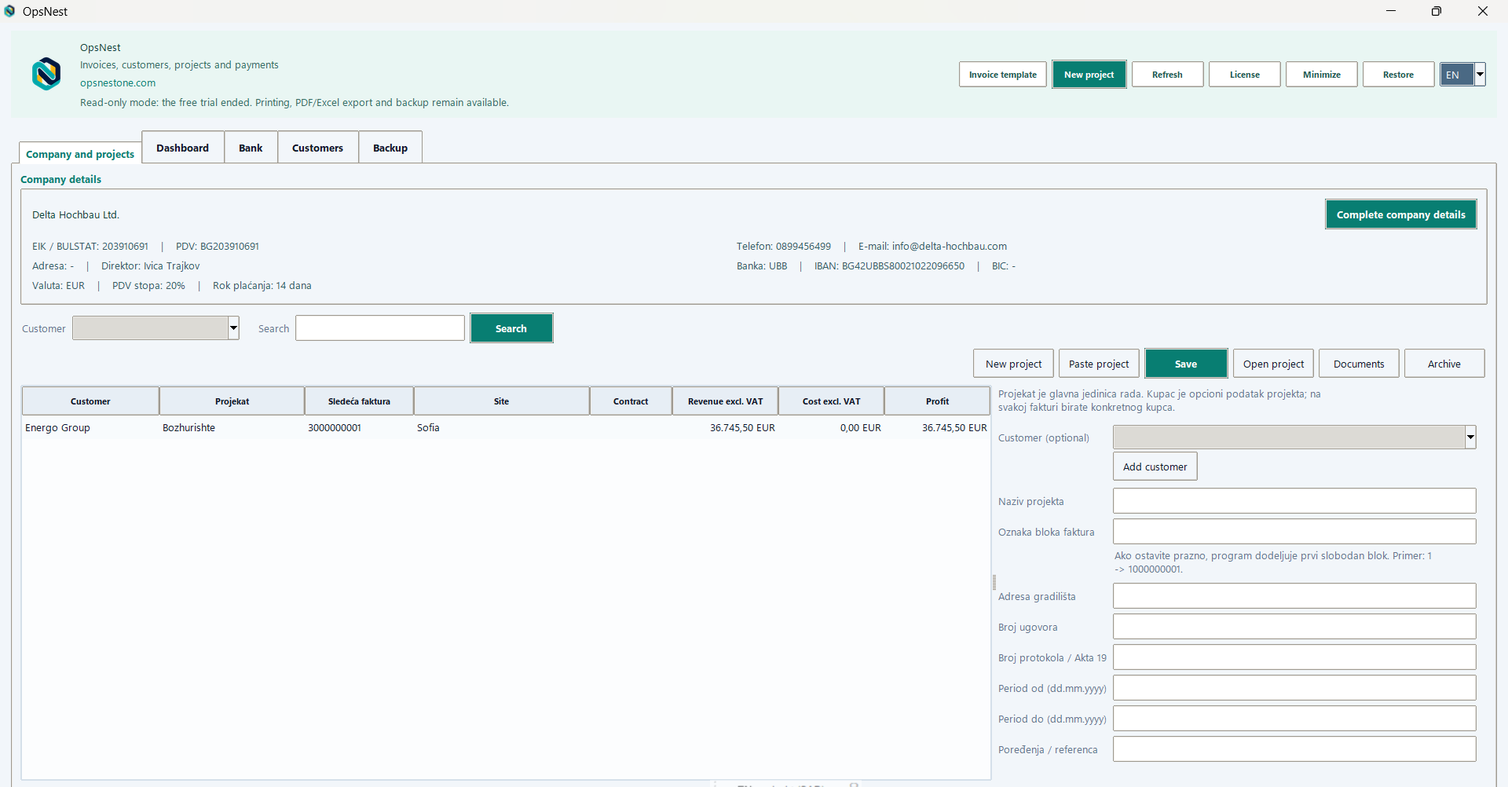
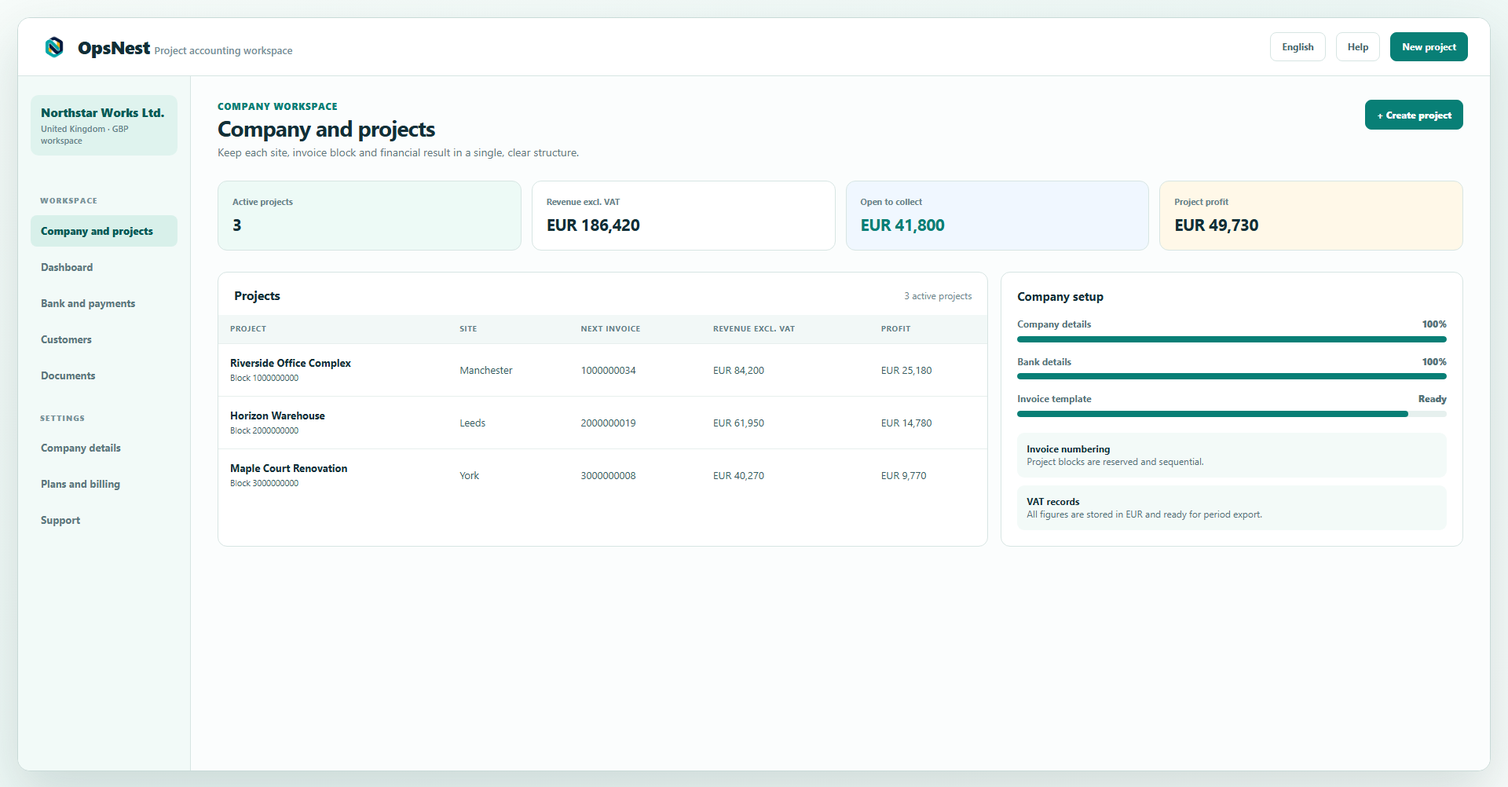
Publish demo gallery and guide page

diff --git a/tools/render_demo_screens.html b/tools/render_demo_screens.html
@@ -1,0 +1,20 @@
+<!doctype html>
+<html lang="en">
+<head>
+  <meta charset="utf-8">
+  <meta name="viewport" content="width=device-width, initial-scale=1">
+  <title>OpsNest public demo screens</title>
+  <style>
+    :root { --ink:#122f37; --muted:#5f7880; --teal:#087f76; --teal-dark:#075b57; --mint:#e8f7f3; --line:#d7e5e3; --paper:#f6faf9; --blue:#eff6ff; --amber:#fff4dc; --red:#fff0ef; }
+    *{box-sizing:border-box} body{margin:0;background:#edf5f3;color:var(--ink);font:15px/1.38 "Segoe UI",Arial,sans-serif}.screen{display:none;min-height:1002px;background:linear-gradient(145deg,#f7fcfa 0%,#edf7f5 52%,#f9fcfb 100%);padding:22px}.screen.active{display:block}.window{min-height:958px;overflow:hidden;border:1px solid #c8dad7;border-radius:16px;background:#fff;box-shadow:0 28px 70px rgba(17,62,58,.16)}.top{height:74px;display:flex;align-items:center;justify-content:space-between;padding:0 28px;border-bottom:1px solid var(--line);background:rgba(255,255,255,.96)}.brand{display:flex;align-items:center;gap:12px;font-size:23px;font-weight:800;letter-spacing:-.6px}.brand img{width:36px;height:36px}.brand span{color:#759098;font-size:13px;font-weight:600;letter-spacing:0}.top-actions{display:flex;align-items:center;gap:13px}.pill{padding:9px 14px;border:1px solid var(--line);border-radius:8px;color:#45666b;background:#fff;font-size:12px;font-weight:700}.pill.primary{border-color:var(--teal);color:white;background:var(--teal)}.layout{display:grid;grid-template-columns:220px 1fr;min-height:884px}.sidebar{padding:24px 16px;background:#f2faf8;border-right:1px solid var(--line)}.workspace{padding:30px 34px;background:#fbfdfd}.company{display:flex;align-items:center;gap:12px;padding:12px 13px;border-radius:10px;background:#dff3ee;color:var(--teal-dark);font-weight:800}.company small{display:block;margin-top:2px;color:#63848a;font-size:11px;font-weight:600}.menu{display:grid;gap:6px;margin-top:29px}.menu div{padding:11px 13px;border-radius:8px;color:#5c7880;font-size:13px;font-weight:650}.menu div.active{background:#d8f0ea;color:var(--teal-dark);font-weight:800}.menu label{margin:22px 12px 5px;color:#78939a;font-size:10px;font-weight:800;letter-spacing:1.1px;text-transform:uppercase}.main-head{display:flex;justify-content:space-between;gap:20px;align-items:start}.crumb{color:var(--teal);font-size:12px;font-weight:800;letter-spacing:.6px;text-transform:uppercase}.main-head h1{margin:4px 0 0;font-size:28px;line-height:1.05;letter-spacing:-.9px}.main-head p{margin:7px 0 0;color:var(--muted);font-size:14px}.button{display:inline-flex;align-items:center;justify-content:center;min-height:38px;padding:0 14px;border:1px solid var(--line);border-radius:8px;background:#fff;color:#315b61;font-size:12px;font-weight:800}.button.primary{border-color:var(--teal);background:var(--teal);color:#fff}.mini{padding:8px 11px;border-radius:7px;background:white;border:1px solid var(--line);font-size:11px;font-weight:800;color:#46676c}.stats{display:grid;grid-template-columns:repeat(4,1fr);gap:13px;margin:27px 0}.stat{padding:18px;border:1px solid var(--line);border-radius:12px;background:#fff}.stat.green{background:#edfaf6}.stat.blue{background:#f0f7ff}.stat.amber{background:#fff8e8}.stat small{display:block;color:#68848a;font-size:11px;font-weight:700}.stat strong{display:block;margin-top:7px;font-size:21px;letter-spacing:-.5px}.stat strong.teal{color:var(--teal)}.panel{border:1px solid var(--line);border-radius:12px;background:#fff}.panel-header{display:flex;align-items:center;justify-content:space-between;padding:18px 20px 14px}.panel-header h2{margin:0;font-size:16px;letter-spacing:-.2px}.panel-header span{color:#6c888d;font-size:12px}.table{width:100%;border-collapse:collapse}.table th{padding:11px 15px;background:#f2f8f7;color:#628087;font-size:10px;letter-spacing:.6px;text-align:left;text-transform:uppercase}.table td{padding:15px;border-top:1px solid #e7efed;color:#355c63;font-size:13px}.table td strong{color:var(--ink)}.status{display:inline-block;padding:5px 8px;border-radius:99px;font-size:10px;font-weight:800}.status.green{color:#087064;background:#dff5ed}.status.amber{color:#a86d0b;background:#fff0cb}.status.blue{color:#2c6fb6;background:#e9f3ff}.two{display:grid;grid-template-columns:1.25fr .75fr;gap:16px}.side-summary{padding:20px}.side-summary h3{margin:0 0 16px;font-size:15px}.bar-line{display:flex;justify-content:space-between;gap:10px;margin:16px 0 7px;color:#557379;font-size:12px;font-weight:700}.bar{height:8px;border-radius:99px;background:#e6f0ee;overflow:hidden}.bar i{display:block;height:100%;border-radius:99px;background:var(--teal)}.notes{display:grid;gap:10px;margin-top:20px}.note{padding:12px;border-radius:9px;background:#f3faf8;color:#537279;font-size:12px}.note b{color:var(--ink)}
+    .project-banner{display:flex;align-items:center;justify-content:space-between;margin:24px 0 16px;padding:18px 20px;border:1px solid #cce5df;border-radius:12px;background:linear-gradient(100deg,#e7f6f1,#f9fffd)}.project-banner h2{margin:5px 0 0;font-size:21px}.invoice-actions{display:flex;gap:9px}.progress{height:9px;margin-top:14px;border-radius:99px;background:#deeeeb;overflow:hidden}.progress i{display:block;width:72%;height:100%;border-radius:inherit;background:linear-gradient(90deg,var(--teal),#35aa99)}.activity{padding:20px}.activity-item{display:flex;align-items:center;justify-content:space-between;padding:13px 0;border-bottom:1px solid #e6eeee;font-size:12px}.activity-item:last-child{border:0}.activity-item b{display:block;color:var(--ink);font-size:13px}.activity-item span{color:#6c878d}.row-split{display:grid;grid-template-columns:1fr 1fr;gap:16px}
+    .notice{display:flex;align-items:center;gap:10px;margin:20px 0;padding:12px 15px;border:1px solid #d7e8f7;border-radius:9px;background:#f1f8ff;color:#47718b;font-size:12px}.notice b{color:#216da5}.match{display:grid;grid-template-columns:1.1fr .9fr auto;gap:14px;align-items:center}.match-title{font-weight:800;color:var(--ink)}.match p{margin:3px 0 0;color:#6a848a;font-size:11px}.amount{text-align:right;color:var(--teal-dark);font-size:14px;font-weight:850}.confidence{display:inline-block;padding:5px 8px;border-radius:6px;background:#e1f5ef;color:#087264;font-size:10px;font-weight:800}.bank-grid{display:grid;grid-template-columns:1.3fr .7fr;gap:16px}.match-list .table td{padding:13px 15px}.empty{padding:34px 18px;color:#789398;text-align:center;font-size:12px}
+  </style>
+</head>
+<body>
+  <section class="screen" id="company"><div class="window"><div class="top"><div class="brand"><img src="../public_site/assets/opsnest-mark.png" alt=""><div>OpsNest <span>Project accounting workspace</span></div></div><div class="top-actions"><span class="pill">English</span><span class="pill">Help</span><span class="pill primary">New project</span></div></div><div class="layout"><aside class="sidebar"><div class="company"><div>Northstar Works Ltd.<small>United Kingdom · GBP workspace</small></div></div><div class="menu"><label>Workspace</label><div class="active">Company and projects</div><div>Dashboard</div><div>Bank and payments</div><div>Customers</div><div>Documents</div><label>Settings</label><div>Company details</div><div>Plans and billing</div><div>Support</div></div></aside><main class="workspace"><div class="main-head"><div><div class="crumb">Company workspace</div><h1>Company and projects</h1><p>Keep each site, invoice block and financial result in a single, clear structure.</p></div><div class="button primary">+ Create project</div></div><div class="stats"><div class="stat green"><small>Active projects</small><strong>3</strong></div><div class="stat"><small>Revenue excl. VAT</small><strong>EUR 186,420</strong></div><div class="stat blue"><small>Open to collect</small><strong class="teal">EUR 41,800</strong></div><div class="stat amber"><small>Project profit</small><strong>EUR 49,730</strong></div></div><div class="two"><section class="panel"><div class="panel-header"><h2>Projects</h2><span>3 active projects</span></div><table class="table"><thead><tr><th>Project</th><th>Site</th><th>Next invoice</th><th>Revenue excl. VAT</th><th>Profit</th></tr></thead><tbody><tr><td><strong>Riverside Office Complex</strong><br><small>Block 1000000000</small></td><td>Manchester</td><td>1000000034</td><td>EUR 84,200</td><td>EUR 25,180</td></tr><tr><td><strong>Horizon Warehouse</strong><br><small>Block 2000000000</small></td><td>Leeds</td><td>2000000019</td><td>EUR 61,950</td><td>EUR 14,780</td></tr><tr><td><strong>Maple Court Renovation</strong><br><small>Block 3000000000</small></td><td>York</td><td>3000000008</td><td>EUR 40,270</td><td>EUR 9,770</td></tr></tbody></table></section><aside class="panel side-summary"><h3>Company setup</h3><div class="bar-line"><span>Company details</span><b>100%</b></div><div class="bar"><i style="width:100%"></i></div><div class="bar-line"><span>Bank details</span><b>100%</b></div><div class="bar"><i style="width:100%"></i></div><div class="bar-line"><span>Invoice template</span><b>Ready</b></div><div class="bar"><i style="width:91%"></i></div><div class="notes"><div class="note"><b>Invoice numbering</b><br>Project blocks are reserved and sequential.</div><div class="note"><b>VAT records</b><br>All figures are stored in EUR and ready for period export.</div></div></aside></div></main></div></div></section>
+  <section class="screen" id="dashboard"><div class="window"><div class="top"><div class="brand"><img src="../public_site/assets/opsnest-mark.png" alt=""><div>OpsNest <span>Project accounting workspace</span></div></div><div class="top-actions"><span class="pill">Riverside Office Complex</span><span class="pill primary">New invoice</span></div></div><div class="layout"><aside class="sidebar"><div class="company"><div>Northstar Works Ltd.<small>Riverside Office Complex</small></div></div><div class="menu"><label>Project</label><div class="active">Dashboard</div><div>Invoices</div><div>Incoming bills</div><div>Payments</div><div>Documents</div><label>Reporting</label><div>VAT record</div><div>Profit report</div><div>Accountant export</div></div></aside><main class="workspace"><div class="main-head"><div><div class="crumb">Project dashboard · Active</div><h1>Riverside Office Complex</h1><p>Manchester · Contract RC-2026-14 · Invoice block 1000000000</p></div><div class="invoice-actions"><span class="button">Import bill PDF</span><span class="button primary">+ New invoice</span></div></div><div class="project-banner"><div><div class="crumb">Project progress</div><h2>Structural works and fit-out</h2><div class="progress"><i></i></div></div><div><span class="status green">On track</span><p style="margin:8px 0 0;color:#5f7a80;font-size:12px">Budget variance: +4.8%</p></div></div><div class="stats"><div class="stat"><small>Revenue excl. VAT</small><strong>EUR 84,200</strong></div><div class="stat green"><small>Collected</small><strong class="teal">EUR 61,950</strong></div><div class="stat blue"><small>Open to collect</small><strong>EUR 22,250</strong></div><div class="stat amber"><small>Profit excl. VAT</small><strong>EUR 25,180</strong></div></div><div class="row-split"><section class="panel"><div class="panel-header"><h2>Project documents</h2><span>Latest activity</span></div><table class="table"><thead><tr><th>Type</th><th>Number</th><th>Partner</th><th>Net amount</th><th>Status</th></tr></thead><tbody><tr><td>Issued invoice</td><td>1000000033</td><td>Harbor Build Ltd.</td><td>EUR 18,450</td><td><span class="status amber">Part paid</span></td></tr><tr><td>Incoming bill</td><td>MB-4819</td><td>Silverline Materials</td><td>EUR 7,840</td><td><span class="status green">Recorded</span></td></tr><tr><td>Issued invoice</td><td>1000000032</td><td>Harbor Build Ltd.</td><td>EUR 12,600</td><td><span class="status green">Paid</span></td></tr></tbody></table></section><section class="panel activity"><div class="panel-header" style="padding:0 0 8px"><h2>What needs attention</h2></div><div class="activity-item"><div><b>Invoice 1000000033</b><span>Due in 3 days</span></div><span class="status amber">EUR 12,450 open</span></div><div class="activity-item"><div><b>Supplier bill PDF</b><span>Review extracted values</span></div><span class="status blue">Ready</span></div><div class="activity-item"><div><b>VAT record</b><span>July period is open</span></div><span class="status blue">Review</span></div><div class="activity-item"><div><b>Project budget</b><span>Materials remain under plan</span></div><span class="status green">Healthy</span></div></section></div></main></div></div></section>
+  <section class="screen" id="bank"><div class="window"><div class="top"><div class="brand"><img src="../public_site/assets/opsnest-mark.png" alt=""><div>OpsNest <span>Project accounting workspace</span></div></div><div class="top-actions"><span class="pill">July 2026</span><span class="pill primary">Import statement</span></div></div><div class="layout"><aside class="sidebar"><div class="company"><div>Northstar Works Ltd.<small>Bank and payments</small></div></div><div class="menu"><label>Finance</label><div>Project dashboard</div><div>Invoices</div><div class="active">Bank and payments</div><div>Incoming bills</div><div>VAT record</div><label>Tools</label><div>Documents</div><div>Accountant export</div><div>Support</div></div></aside><main class="workspace"><div class="main-head"><div><div class="crumb">Bank statement review</div><h1>Payments ready to confirm</h1><p>OpsNest suggests the invoice match. You confirm every payment before the balance changes.</p></div><div class="button primary">Confirm all safe matches</div></div><div class="notice"><b>3 payments need your review.</b> Imported values are never posted automatically.</div><div class="stats"><div class="stat"><small>Imported payments</small><strong>8</strong></div><div class="stat green"><small>Safe matches</small><strong class="teal">5</strong></div><div class="stat blue"><small>Review required</small><strong>3</strong></div><div class="stat amber"><small>Matched value</small><strong>EUR 24,790</strong></div></div><div class="bank-grid"><section class="panel match-list"><div class="panel-header"><h2>Suggested matches</h2><span>Review and confirm</span></div><table class="table"><thead><tr><th>Payment</th><th>Suggested invoice</th><th>Amount</th><th>Confidence</th></tr></thead><tbody><tr><td><strong>Harbor Build Ltd.</strong><br><small>Reference: RC-0033</small></td><td>Invoice 1000000033<br><small>Riverside Office Complex</small></td><td class="amount">EUR 6,000</td><td><span class="confidence">High · 98%</span></td></tr><tr><td><strong>Harbor Build Ltd.</strong><br><small>Reference: RC-0032</small></td><td>Invoice 1000000032<br><small>Riverside Office Complex</small></td><td class="amount">EUR 12,600</td><td><span class="confidence">High · 100%</span></td></tr><tr><td><strong>Fieldstone Design</strong><br><small>Reference: Deposit</small></td><td>Invoice 2000000018<br><small>Horizon Warehouse</small></td><td class="amount">EUR 4,240</td><td><span class="confidence">High · 96%</span></td></tr><tr><td><strong>Unknown transfer</strong><br><small>Reference: INV-28</small></td><td>No safe suggestion</td><td class="amount">EUR 1,950</td><td><span class="status amber">Review</span></td></tr></tbody></table></section><aside class="panel side-summary"><h3>Review steps</h3><div class="notes"><div class="note"><b>1. Import statement</b><br>Use CSV or XLSX from your bank.</div><div class="note"><b>2. Review the suggestion</b><br>Check payer, amount and reference.</div><div class="note"><b>3. Confirm payment</b><br>The invoice balance and project dashboard update together.</div></div><div class="empty">No payment is changed without confirmation.</div></aside></div></main></div></div></section>
+  <script>const view=new URLSearchParams(location.search).get('view')||'company';document.getElementById(view)?.classList.add('active');</script>
+</body>
+</html>

diff --git a/public_site/index.html b/public_site/index.html
@@ -6,7 +6,7 @@
   <meta name="description" content="OpsNest is a Windows application for project invoicing, costs, payments and clear project profit in EUR.">
   <title>OpsNest | Project accounting made visible</title>
   <link rel="icon" href="/assets/opsnest.ico">
-  <link rel="stylesheet" href="/assets/opsnest.css?v=20260717-clean-screens">
+  <link rel="stylesheet" href="/assets/opsnest.css?v=20260717-symmetric-demo">
 </head>
 <body>
   <div class="site-shell">
@@ -15,7 +15,7 @@
       <div class="container nav-wrap">
         <a class="brand" href="/" aria-label="OpsNest home"><img src="/assets/opsnest-mark.png" alt="OpsNest logo"><span class="brand-word"><strong>OpsNest</strong><span>Project accounting</span></span></a>
         <nav class="nav-links" aria-label="Primary navigation">
-          <a href="#product">Product</a><a href="#screens">Screens</a><a href="#how-it-works">How it works</a><a href="/pricing.html">Pricing</a><a href="/getting-started.html">Install guide</a><a href="/support.html">Support</a><a class="nav-cta" href="/downloads/OpsNest-Setup-2.8.12.exe">Download for Windows</a>
+          <a href="#product">Product</a><a href="#screens">Screens</a><a href="/how-it-works.html">How it works</a><a href="/pricing.html">Pricing</a><a href="/getting-started.html">Install guide</a><a href="/support.html">Support</a><a class="nav-cta" href="/downloads/OpsNest-Setup-2.8.12.exe">Download for Windows</a>
         </nav>
       </div>
     </header>
@@ -38,7 +38,7 @@
 
       <section class="section soft" id="product"><div class="container"><div class="section-heading"><div><div class="eyebrow">One place to work</div><h2>The clarity of a project dashboard with the discipline of accounting.</h2></div><p>Open a project and see its full story: money invoiced, money collected, VAT, direct costs and the result.</p></div><div class="feature-grid"><article class="feature-card"><div class="feature-icon">01</div><h3>Invoice with confidence</h3><p>Use your invoice template, automatic project prefixes and consecutive document numbers. Save PDF immediately and send it by e-mail from the app.</p></article><article class="feature-card"><div class="feature-icon">02</div><h3>Know every cost</h3><p>Capture incoming bills, subcontractor costs, material, wages and other expenses. Import a PDF, review the detected values and save it to the right project.</p></article><article class="feature-card"><div class="feature-icon">03</div><h3>See the real result</h3><p>Every project dashboard combines revenue, payment status, VAT, costs, profit and supporting documents without forcing you into complicated accounting screens.</p></article></div></div></section>
 
-      <section class="section product-screens" id="screens"><div class="container"><div class="section-heading"><div><div class="eyebrow">Inside OpsNest</div><h2>Clear screens for the work that matters every day.</h2></div><p>See projects, financial results and bank-payment matching in one practical Windows workspace.</p></div><div class="showcase-grid"><figure class="showcase-card showcase-primary"><a href="/assets/screenshots/company-projects.png?v=20260717" target="_blank" rel="noopener" aria-label="Open the company and projects screenshot in full size"><img src="/assets/screenshots/company-projects.png?v=20260717" alt="OpsNest company and project workspace" width="1920" height="1002" loading="lazy" decoding="async"></a><figcaption><span>Company and projects</span><strong>Build a clear project structure before the first invoice</strong></figcaption></figure><figure class="showcase-card showcase-dashboard"><a href="/assets/screenshots/project-dashboard.png?v=20260717" target="_blank" rel="noopener" aria-label="Open the project dashboard screenshot in full size"><img src="/assets/screenshots/project-dashboard.png?v=20260717" alt="OpsNest project dashboard with invoices, VAT, costs and profit" width="1920" height="1002" loading="lazy" decoding="async"></a><figcaption><span>Project dashboard</span><strong>Revenue, VAT, costs and profit in one view</strong></figcaption></figure><figure class="showcase-card showcase-bank"><a href="/assets/screenshots/bank-matching.png?v=20260717" target="_blank" rel="noopener" aria-label="Open the bank matching screenshot in full size"><img src="/assets/screenshots/bank-matching.png?v=20260717" alt="OpsNest bank statement and payment matching workspace" width="1920" height="1002" loading="lazy" decoding="async"></a><figcaption><span>Bank matching</span><strong>Review imported payments before confirming them</strong></figcaption></figure></div><p class="screen-note">The screens use representative demo data. Click any image to inspect it in full size.</p></div></section>
+      <section class="section product-screens" id="screens"><div class="container"><div class="section-heading"><div><div class="eyebrow">Inside OpsNest</div><h2>Clear screens for the work that matters every day.</h2></div><p>See projects, financial results and bank-payment matching in one practical Windows workspace.</p></div><div class="showcase-grid"><figure class="showcase-card showcase-primary"><a href="/assets/screenshots/company-projects.png?v=20260717-demo" target="_blank" rel="noopener" aria-label="Open the company and projects demo screen in full size"><img src="/assets/screenshots/company-projects.png?v=20260717-demo" alt="OpsNest demo company and project workspace" width="1920" height="1002" loading="lazy" decoding="async"></a><figcaption><span>Company and projects</span><strong>Build a clear project structure before the first invoice</strong></figcaption></figure><figure class="showcase-card showcase-dashboard"><a href="/assets/screenshots/project-dashboard.png?v=20260717-demo" target="_blank" rel="noopener" aria-label="Open the project dashboard demo screen in full size"><img src="/assets/screenshots/project-dashboard.png?v=20260717-demo" alt="OpsNest demo project dashboard with invoices, VAT, costs and profit" width="1920" height="1002" loading="lazy" decoding="async"></a><figcaption><span>Project dashboard</span><strong>Revenue, VAT, costs and profit in one view</strong></figcaption></figure><figure class="showcase-card showcase-bank"><a href="/assets/screenshots/bank-matching.png?v=20260717-demo" target="_blank" rel="noopener" aria-label="Open the bank matching demo screen in full size"><img src="/assets/screenshots/bank-matching.png?v=20260717-demo" alt="OpsNest demo bank statement and payment matching workspace" width="1920" height="1002" loading="lazy" decoding="async"></a><figcaption><span>Bank matching</span><strong>Review imported payments before confirming them</strong></figcaption></figure></div><p class="screen-note">The screens use representative demo data. Click any image to inspect it in full size.</p></div></section>
 
       <section class="section" id="how-it-works"><div class="container"><div class="section-heading"><div><div class="eyebrow">A simple start</div><h2>From download to first invoice in a few clear steps.</h2></div></div><div class="process-grid"><article class="process"><div class="step">1</div><h3>Install and register</h3><p>Download the Windows installer, enter your company details and select the country that sets your default VAT rate.</p></article><article class="process"><div class="step">2</div><h3>Create your project</h3><p>Add a project, choose the invoice block and add customers only where they are needed on a specific invoice.</p></article><article class="process"><div class="step">3</div><h3>Track the whole picture</h3><p>Issue invoices, import PDF bills, match payments and export a clear record for your accountant when you need it.</p></article></div><div class="inline-actions"><a class="button secondary" href="/getting-started.html">Read the complete installation guide</a></div></div></section>
 

diff --git a/public_site/pricing.html b/public_site/pricing.html
@@ -1,5 +1,5 @@
 <!doctype html>
 <html lang="en">
-<head><meta charset="utf-8"><meta name="viewport" content="width=device-width, initial-scale=1"><meta name="description" content="Compare OpsNest Starter, Business and Pro plans."><title>OpsNest pricing | Simple monthly packages</title><link rel="icon" href="/assets/opsnest.ico"><link rel="stylesheet" href="/assets/opsnest.css?v=20260717-aligned"></head>
+<head><meta charset="utf-8"><meta name="viewport" content="width=device-width, initial-scale=1"><meta name="description" content="Compare OpsNest Starter, Business and Pro plans."><title>OpsNest pricing | Simple monthly packages</title><link rel="icon" href="/assets/opsnest.ico"><link rel="stylesheet" href="/assets/opsnest.css?v=20260717-symmetric"></head>
 <body><div class="site-shell"><div class="announcement"><div class="container"><strong>7 days free.</strong><span>New companies begin with all Pro features and no card.</span></div></div><header class="site-header"><div class="container nav-wrap"><a class="brand" href="/"><img src="/assets/opsnest-mark.png" alt="OpsNest logo"><span class="brand-word"><strong>OpsNest</strong><span>Project accounting</span></span></a><nav class="nav-links"><a href="/">Product</a><a href="/getting-started.html">Install guide</a><a href="/support.html">Support</a><a class="nav-cta" href="/downloads/OpsNest-Setup-2.8.12.exe">Download for Windows</a></nav></div></header><main><section class="page-hero"><div class="container"><div class="eyebrow">Plans that are easy to understand</div><h1>Pay for the size of your team, not for a maze of add-ons.</h1><p class="lede">Every package includes local project accounting. Business and Pro add secure team access. Seats are included in the monthly package price, so there is no separate per-person charge inside the listed limit.</p></div></section><section class="section"><div class="container"><div class="pricing-preview"><article class="price-card"><span class="tag">For independent work</span><h3>Starter</h3><div class="price">EUR 9.90 <span>/ month</span></div><ul><li>1 local owner seat</li><li>3 active projects</li><li>30 issued invoices per month</li><li>30 PDF imports per month</li><li>Invoices, PDF/Excel, payments and project dashboard</li><li>E-mail support</li></ul><a class="button secondary" href="/downloads/OpsNest-Setup-2.8.12.exe">Download and start trial</a></article><article class="price-card featured"><span class="tag">Recommended for teams</span><h3>Business</h3><div class="price">EUR 19.90 <span>/ month</span></div><ul><li>Up to 5 team seats included</li><li>15 active projects</li><li>250 invoices per month</li><li>250 PDF imports per month</li><li>Project budgets, bank matching and VAT records</li><li>Owner approval before issuing and custom Excel templates</li><li>Accountant export and priority e-mail support</li></ul><a class="button" href="/downloads/OpsNest-Setup-2.8.12.exe">Download and start trial</a></article><article class="price-card"><span class="tag">For larger operations</span><h3>Pro</h3><div class="price">EUR 29.90 <span>/ month</span></div><ul><li>Up to 20 team seats included</li><li>Unlimited active projects</li><li>Unlimited issued invoices</li><li>Unlimited PDF imports</li><li>All Business tools, owner approval, custom templates and advanced PDF processing</li><li>Priority support and complete project reporting</li></ul><a class="button secondary" href="/downloads/OpsNest-Setup-2.8.12.exe">Download and start trial</a></article></div></div></section><section class="section soft"><div class="container"><div class="split-band"><div><div class="eyebrow">No hidden seat fees</div><h2>Five or twenty people are already included.</h2><p>Business includes up to five people and Pro includes up to twenty. You do not pay an additional fee for each person until you need a larger package. One owner invites teammates, sets roles and can remove access at any time.</p></div><div class="team-list"><div class="team-role"><b>Owner / Administrator</b><span>Controls company profile, billing, members and settings.</span></div><div class="team-role"><b>Project manager</b><span>Works with projects, invoices, costs and reports.</span></div><div class="team-role"><b>Accountant</b><span>Works with VAT, documents and exports.</span></div><div class="team-role"><b>Operator</b><span>Enters costs, documents and payments without deletion rights.</span></div></div></div></div></section><section class="section"><div class="container"><div class="faq-grid"><details><summary>How do I pay after the trial?</summary><p>Inside OpsNest open Plans and billing, choose Starter, Business or Pro, and continue to PayPal. Your next billing date appears in the same window after successful payment.</p></details><details><summary>Can I cancel whenever I want?</summary><p>Yes. The Plans and billing window contains a link to PayPal automatic payments, where you can cancel future renewals. Local data remains available in read-only mode after paid access ends.</p></details><details><summary>Does the trial require a card?</summary><p>No. A seven-day Pro trial starts at company registration without a card. You choose whether to purchase when the trial is ending.</p></details><details><summary>What if I need more than 20 people?</summary><p>Contact support and we can review a workspace plan that fits your organization before anyone is charged.</p></details></div></div></section></main><footer class="site-footer"><div class="container footer-grid"><div><div class="footer-mark"><img src="/assets/opsnest-mark.png" alt=""><span>OpsNest</span></div><p>Project invoicing and accounting software for clear, practical work.</p></div><div><h3>Product</h3><a href="/">Product overview</a><a href="/getting-started.html">Install guide</a><a href="/downloads/OpsNest-Setup-2.8.12.exe">Windows download</a></div><div><h3>Support and legal</h3><a href="/support.html">Support center</a><a href="/privacy.html">Privacy</a><a href="/terms.html">Terms</a><a href="/cancellation.html">Cancellation</a></div></div><div class="container copyright">OpsNest. All prices are shown in EUR.</div></footer></div></body>
 </html>

diff --git a/public_site/how-it-works.html b/public_site/how-it-works.html
@@ -1,0 +1,5 @@
+<!doctype html>
+<html lang="en">
+<head><meta charset="utf-8"><meta name="viewport" content="width=device-width, initial-scale=1"><meta name="description" content="See how OpsNest connects projects, invoices, costs and payments."><title>How OpsNest works | Project accounting in clear steps</title><link rel="icon" href="/assets/opsnest.ico"><link rel="stylesheet" href="/assets/opsnest.css?v=20260717-symmetric"></head>
+<body><div class="site-shell"><div class="announcement"><div class="container"><strong>7 days free.</strong><span>Your Pro trial starts when you register a company in the desktop app.</span></div></div><header class="site-header"><div class="container nav-wrap"><a class="brand" href="/" aria-label="OpsNest home"><img src="/assets/opsnest-mark.png" alt="OpsNest logo"><span class="brand-word"><strong>OpsNest</strong><span>Project accounting</span></span></a><nav class="nav-links"><a href="/">Product</a><a href="/pricing.html">Pricing</a><a href="/getting-started.html">Install guide</a><a href="/support.html">Support</a><a class="nav-cta" href="/downloads/OpsNest-Setup-2.8.12.exe">Download for Windows</a></nav></div></header><main><section class="page-hero"><div class="container"><div class="eyebrow">How OpsNest works</div><h1>Start with the project. Keep every financial document connected to it.</h1><p class="lede">OpsNest keeps daily project work practical: company data becomes invoice data, project records collect costs and revenue, and the dashboard shows the result in real time.</p></div></section><section class="container content-grid"><article class="content-card"><h2>1. Register the company</h2><p>On the first launch, enter your company name, country, tax and banking details. The seven-day Pro trial begins immediately when registration is completed. The company profile is then used automatically for new invoices.</p><h2>2. Create a project</h2><p>Each project becomes the central workspace. Assign an invoice number block, site address and optional customer details. A single project can hold work for many customers while invoices remain sequential within the chosen number block.</p><h2>3. Add income and costs</h2><p>Create invoices for revenue, add incoming bills for material, subcontractors, wages and other costs, or import a PDF and review the extracted values before saving. Records stay grouped under the project.</p><h2>4. Confirm payments</h2><p>Record a payment from an invoice or import a bank statement. OpsNest suggests matches, but you decide before a payment changes the invoice balance.</p><h2>5. Review profit and VAT</h2><p>The project dashboard shows revenue, costs, collected amounts, outstanding invoices, VAT and profit. Export a selected period for your accountant whenever needed.</p></article><aside class="side-card"><h3>Ready to try it?</h3><p>Install OpsNest, register the company and begin with a real project. No card is required for the seven-day trial.</p><a class="button" href="/downloads/OpsNest-Setup-2.8.12.exe">Download for Windows</a><a class="button secondary" href="/pricing.html">Compare packages</a></aside></section></main><footer class="site-footer"><div class="container footer-grid"><div><div class="footer-mark"><img src="/assets/opsnest-mark.png" alt=""><span>OpsNest</span></div><p>Project invoicing and accounting software for clear, practical work.</p></div><div><h3>Product</h3><a href="/pricing.html">Plans and pricing</a><a href="/getting-started.html">Install guide</a><a href="/downloads/OpsNest-Setup-2.8.12.exe">Windows download</a></div><div><h3>Support and legal</h3><a href="/support.html">Support center</a><a href="/privacy.html">Privacy</a><a href="/terms.html">Terms</a><a href="/cancellation.html">Cancellation</a></div></div><div class="container copyright">OpsNest. All prices are shown in EUR.</div></footer></div></body>
+</html>

diff --git a/public_site/assets/opsnest.css b/public_site/assets/opsnest.css
@@ -197,6 +197,7 @@ img { max-width: 100%; }
   display: grid;
   grid-template-columns: repeat(3, minmax(0, 1fr));
   gap: 16px;
+  grid-auto-rows: 1fr;
   align-items: stretch;
 }
 .pricing-preview > .price-card,
@@ -227,7 +228,7 @@ img { max-width: 100%; }
 .price-card ul { flex: 1; margin: 0 0 22px; padding: 0; list-style: none; }
 .price-card li { position: relative; padding: 6px 0 6px 23px; color: #46666d; font-size: .91rem; }
 .price-card li::before { position: absolute; left: 0; color: var(--teal); content: "+"; font-weight: 900; }
-.price-card .button { width: 100%; }
+.price-card .button { width: 100%; margin-top: auto; }
 
 .faq-grid { display: grid; grid-template-columns: repeat(2, 1fr); gap: 16px; }
 details { border: 1px solid var(--line); border-radius: 14px; background: white; padding: 18px 20px; }
